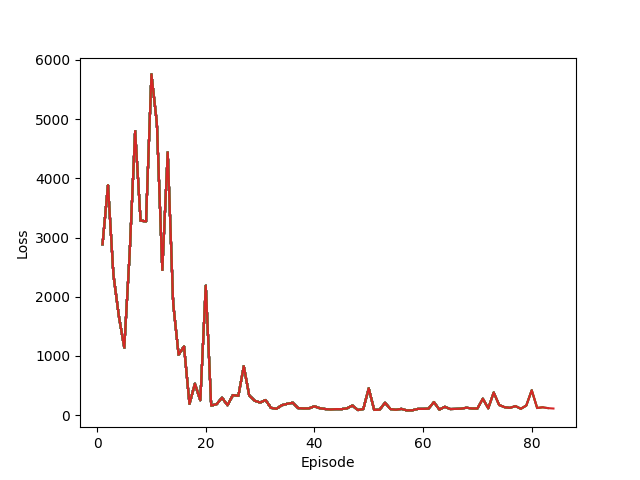
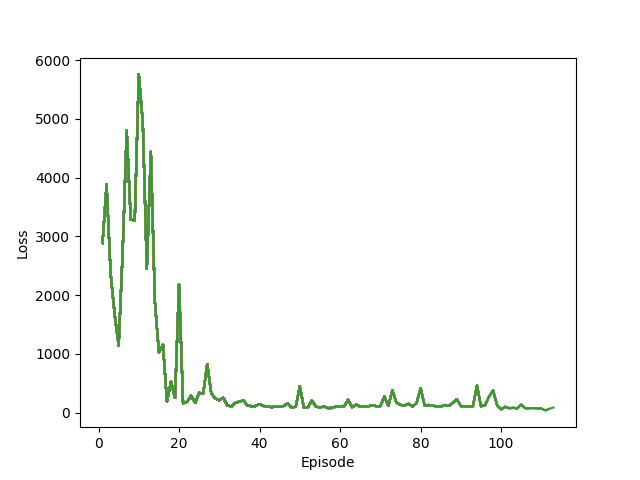
Episodes shortened to prevent RAM crash

diff --git a/train.py b/train.py
@@ -30,7 +30,7 @@ class Trainer(object):
         self.batch_size = 256
         self.dimensions = 100
         self.hidden_size = 10
-        self.num_episodes = 10000
+        self.num_episodes = 500
 
         # set of learning rates from which agent chooses from
         self.step_size_map = np.array([10**i for i in range(-6, 1)])
